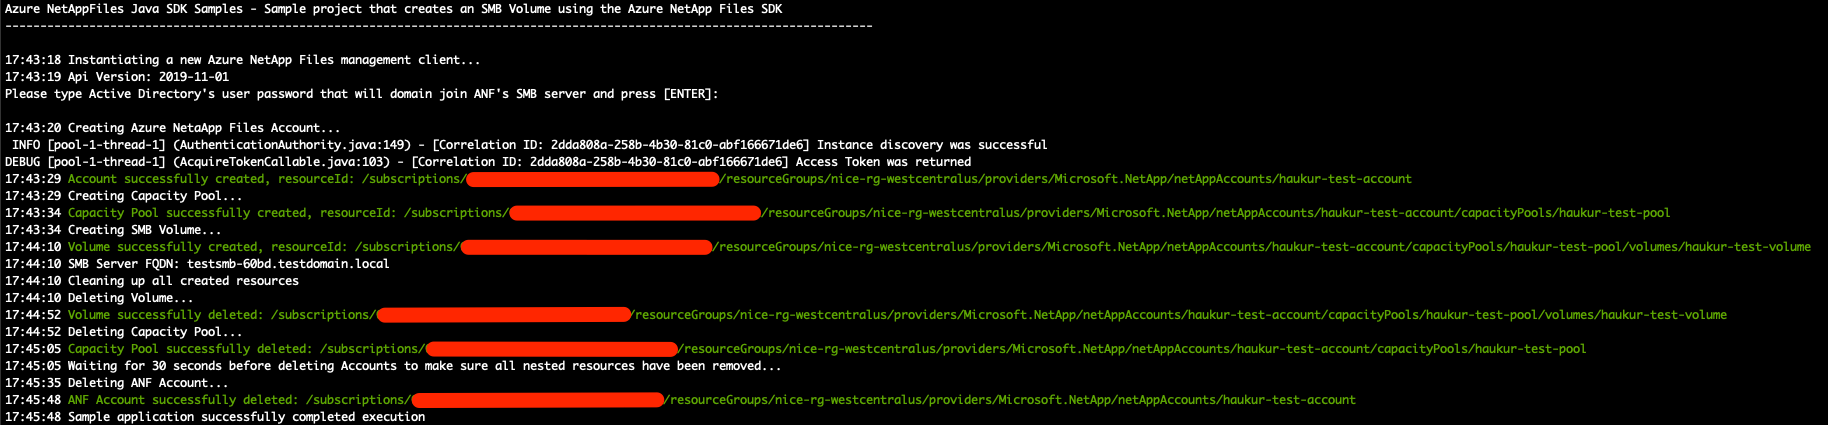
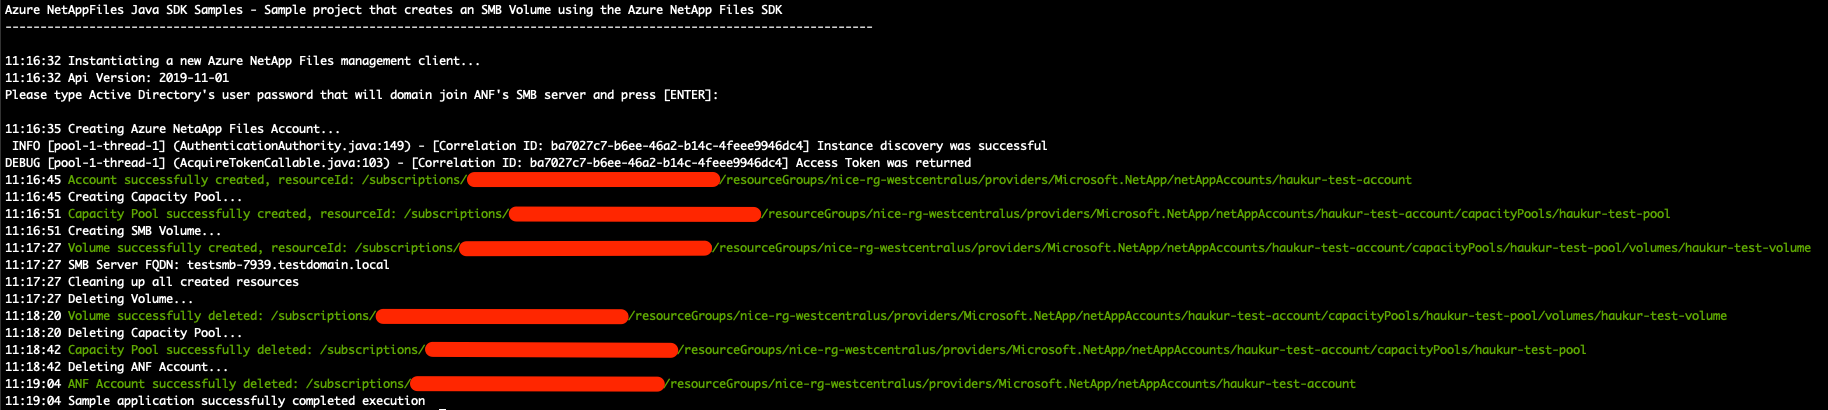
updates from comments

Changed region(s): [[0.0, 0.2927, 0.9978, 0.9951], [0.0, 0.1171, 0.4054, 0.2634], [0.0, 0.0, 0.4677, 0.0878]]

diff --git a/src/main/java/smb/sdk/sample/main.java b/src/main/java/smb/sdk/sample/main.java
@@ -42,6 +42,7 @@ public class main
         }
         catch (Exception e)
         {
+            Utils.writeErrorMessage(e.getMessage());
         }
 
         System.exit(0);
@@ -61,7 +62,7 @@ public class main
         String subnetName = "anf-sn";
         String anfAccountName = "test-account01";
         String capacityPoolName = "test-pool01";
-        String capacityPoolServiceLevel = "Standard";
+        String capacityPoolServiceLevel = "Premium"; // Valid service levels are: Ultra, Premium, Standard
         String volumeName = "test-vol01";
 
         long capacityPoolSize = 4398046511104L;  // 4TiB which is minimum size
@@ -152,7 +153,7 @@ public class main
             }
             catch (Exception e)
             {
-                Utils.writeConsoleMessage("An error occurred while creatin capacity pool: " + e.getMessage());
+                Utils.writeConsoleMessage("An error occurred while creating capacity pool: " + e.getMessage());
                 throw e;
             }
         }
@@ -187,7 +188,7 @@ public class main
             }
             catch (Exception e)
             {
-                Utils.writeErrorMessage("An error occurred while creating volume: " + e.getMessage());
+                Utils.writeConsoleMessage("An error occurred while creating volume: " + e.getMessage());
                 throw e;
             }
         }
@@ -223,9 +224,6 @@ public class main
             anfClient.pools().delete(resourceGroupName, anfAccountName, capacityPoolName);
             CommonSdk.waitForNoANFResource(anfClient, capacityPool.id(), CapacityPoolInner.class);
             Utils.writeSuccessMessage("Capacity Pool successfully deleted: " + capacityPool.id());
-
-            Utils.writeConsoleMessage("Waiting for 30 seconds before deleting Accounts to make sure all nested resources have been removed...");
-            Utils.threadSleep(30000);
 
             Utils.writeConsoleMessage("Deleting ANF Account...");
             anfClient.accounts().delete(resourceGroupName, anfAccountName);

diff --git a/src/main/java/smb/sdk/sample/common/CommonSdk.java b/src/main/java/smb/sdk/sample/common/CommonSdk.java
@@ -98,7 +98,7 @@ public class CommonSdk
     {
         for (int i = 0; i < retries; i++)
         {
-            Utils.threadSleep(intervalInSec*1000);
+            Utils.threadSleep(intervalInSec*2000);
 
             try
             {

diff --git a/README.md b/README.md
@@ -32,7 +32,9 @@ If you don't already have a Microsoft Azure subscription, you can get a FREE tri
 ## Prerequisites
 
 1. This project is built upon Maven, which has to be installed in order to run the sample. Instructions on installing Maven can be found on their website [here](https://maven.apache.org/install.html)
-1. The sample is written in Java 11. The Maven compiler's target Java version is therefore Java 11, and the JAVA_HOME environment variable must be set to Java 11 or a newer version
+1. The sample is written in Java 11. The Maven compiler's target Java version is therefore Java 11, and the JAVA_HOME environment variable must be set to Java 11 or a newer version.
+Instructions on setting JAVA_HOME can be found [here](https://mkyong.com/java/how-to-set-java_home-on-windows-10/) for windows,
+and [here](https://mkyong.com/java/how-to-set-java_home-environment-variable-on-mac-os-x/) for macOS.
 1. Azure subscription
 1. Subscription needs to be whitelisted for Azure NetApp Files. For more information, please refer to
 [this](https://docs.microsoft.com/azure/azure-netapp-files/azure-netapp-files-register#waitlist) document
@@ -111,7 +113,7 @@ The following table describes all files within this solution:
     ```
 1. Change folder to **.\netappfiles-java-smb-sdk-sample**
 1. Make sure you have the azureauth.json and its environment variable with the path to it defined (as previously described)
-1. Make sure JAVA_HOME is pointing to version 11 of Java or newer
+1. Make sure the JAVA_HOME environment variable is pointing to version 11 of Java or newer (see Prerequisites for instructions)
 1. Compile the console application
     ```powershell
     mvn clean compile
